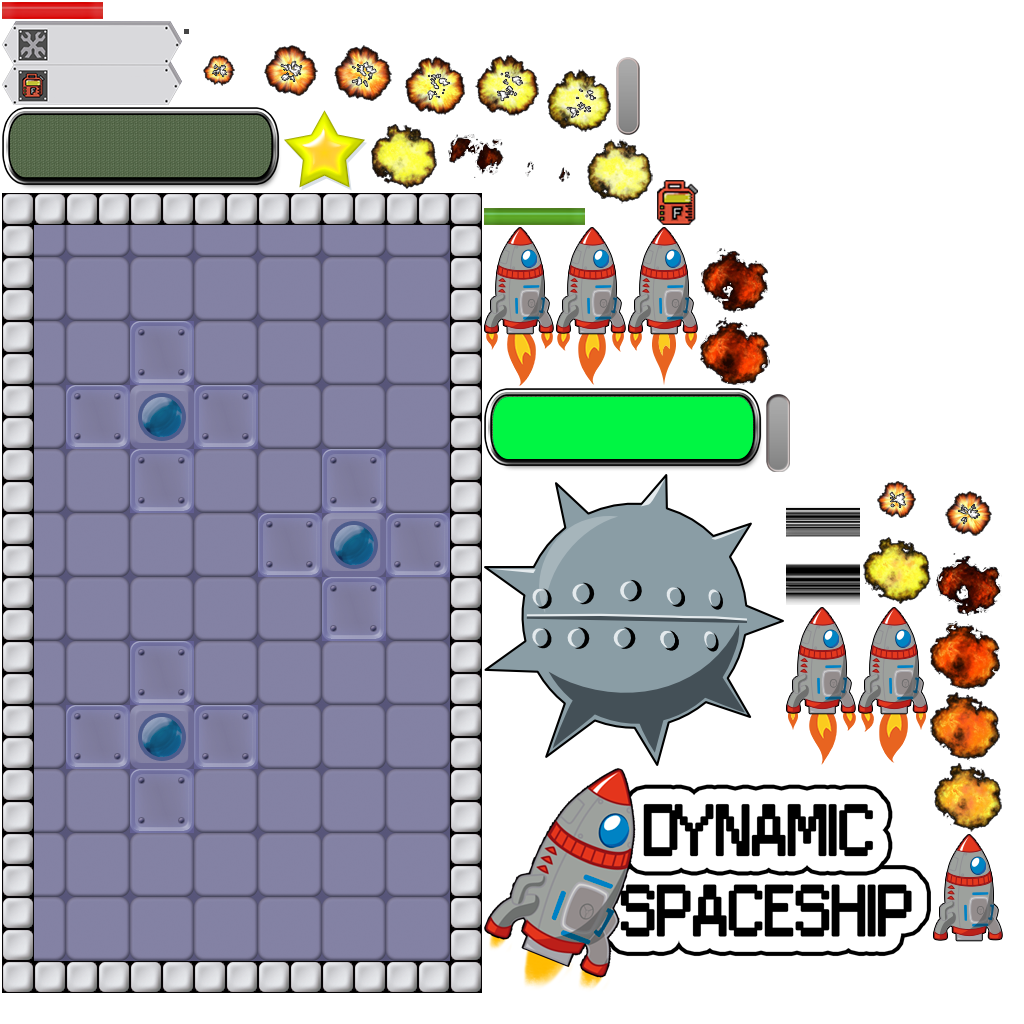
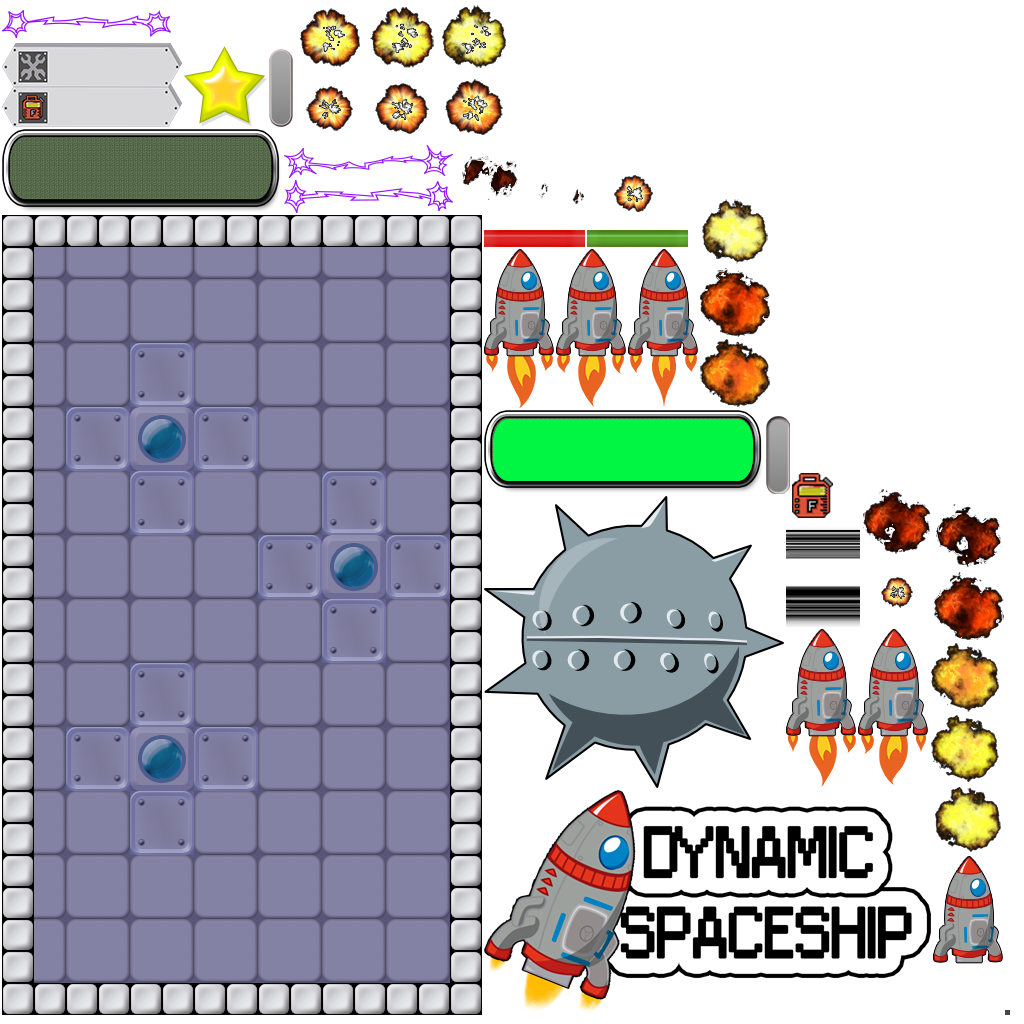
Dano laser

diff --git a/lander/src/com/tiarsoft/lander/game/Colisiones.java b/lander/src/com/tiarsoft/lander/game/Colisiones.java
@@ -11,6 +11,7 @@ import com.badlogic.gdx.physics.box2d.Manifold;
 import com.tiarsoft.lander.game.objetos.Bomba;
 import com.tiarsoft.lander.game.objetos.Estrella;
 import com.tiarsoft.lander.game.objetos.Gas;
+import com.tiarsoft.lander.game.objetos.Laser;
 import com.tiarsoft.lander.game.objetos.Nave;
 import com.tiarsoft.lander.game.objetos.Plataforma;
 
@@ -74,6 +75,10 @@ public class Colisiones implements ContactListener {
 			}
 			return;
 		}
+		else if (oOtraCosa instanceof Laser) {
+			oNave.entroAreaLaser();
+			return;
+		}
 
 		Vector2 vel = bodyNave.getLinearVelocity().sub(bodyOtraCosa.getLinearVelocity());
 		float velocidadResultante = (float) Math.sqrt(vel.x * vel.x + vel.y * vel.y);
@@ -106,6 +111,29 @@ public class Colisiones implements ContactListener {
 
 	@Override
 	public void endContact(Contact contact) {
+		Fixture a = contact.getFixtureA();
+		Fixture b = contact.getFixtureB();
+
+		if (a != null && a.getBody().getUserData() instanceof Nave)
+			endContactNaveOtraCosa(contact.getFixtureA(), contact.getFixtureB());
+		else if (b != null && b.getBody().getUserData() instanceof Nave)
+			endContactNaveOtraCosa(contact.getFixtureB(), contact.getFixtureA());
+	}
+
+	private void endContactNaveOtraCosa(Fixture nave, Fixture otraCosa) {
+		if (nave == null || otraCosa == null)
+			return;
+
+		Body bodyNave = nave.getBody();
+		Nave oNave = (Nave) bodyNave.getUserData();
+
+		Body bodyOtraCosa = otraCosa.getBody();
+		Object oOtraCosa = bodyOtraCosa.getUserData();
+
+		if (oOtraCosa instanceof Laser) {
+			oNave.salioAreaLaser();
+			return;
+		}
 
 	}
 

diff --git a/lander/src/com/tiarsoft/lander/game/WorldGame.java b/lander/src/com/tiarsoft/lander/game/WorldGame.java
@@ -96,6 +96,10 @@ public class WorldGame {
 					arrBombas.removeValue(obj, true);
 				}
 			}
+			else if (body.getUserData() instanceof Laser) {
+				Laser obj = (Laser) body.getUserData();
+				updateLaser(delta, body);
+			}
 		}
 
 		if (oNave.gas <= 0 && state == STATE_RUNNING) {
@@ -113,6 +117,13 @@ public class WorldGame {
 		}
 
 		obj.update(delta, body, accelX, accelY);
+
+		if (oNave.willGetHurtByLaser) {
+			oNave.getHurtByLaser(50);
+			Vector2 blastDirection = body.getWorldCenter().sub(body.getWorldCenter());
+			blastDirection.nor();
+			body.applyLinearImpulse(blastDirection.scl(2f), body.getWorldCenter(), true);
+		}
 	}
 
 	private void updateBomba(float delta, Body body) {
@@ -123,6 +134,18 @@ public class WorldGame {
 			body.setLinearVelocity(obj.velocidad);
 		else
 			body.setLinearVelocity(0, 0);
+
+	}
+
+	private void updateLaser(float delta, Body body) {
+		Laser obj = (Laser) body.getUserData();
+		obj.update(delta, body);
+
+		if (oNave.isTouchingLaser) {
+			if (obj.state == Laser.STATE_FIRE) {
+				oNave.willGetHurtByLaser = true;
+			}
+		}
 
 	}
 

diff --git a/lander/src/com/tiarsoft/lander/Assets.java b/lander/src/com/tiarsoft/lander/Assets.java
@@ -27,6 +27,8 @@ public class Assets {
 	public static Animation naveFly;
 	public static Animation explosion;
 
+	public static Animation laser;
+
 	public static AtlasRegion fondo;
 
 	public static AtlasRegion gas;
@@ -107,6 +109,11 @@ public class Assets {
 		AtlasRegion newExpl18 = atlas.findRegion("newExplosion18");
 		AtlasRegion newExpl19 = atlas.findRegion("newExplosion19");
 		explosion = new Animation(0.05f, newExpl1, newExpl2, newExpl3, newExpl4, newExpl5, newExpl6, newExpl7, newExpl8, newExpl9, newExpl10, newExpl11, newExpl12, newExpl13, newExpl14, newExpl15, newExpl16, newExpl17, newExpl18, newExpl19);
+
+		AtlasRegion laser1 = atlas.findRegion("laser1");
+		AtlasRegion laser2 = atlas.findRegion("laser2");
+		AtlasRegion laser3 = atlas.findRegion("laser3");
+		laser = new Animation(0.1f, laser1, laser2, laser3);
 
 		gas = atlas.findRegion("gas");
 		estrella = atlas.findRegion("estrella");

diff --git a/lander/src/com/tiarsoft/lander/game/objetos/Laser.java b/lander/src/com/tiarsoft/lander/game/objetos/Laser.java
@@ -9,23 +9,29 @@ public class Laser {
 	public static int DIRECCION_VERTICAL = 1;
 
 	float TIME_TO_FIRE = 5;
+	public float timeToFire;
+
 	float TIME_FIRING = 3;
+	public float timeFiring;
 
 	public static int STATE_NORMAL = 0;
 	public static int STATE_FIRE = 1;
 
 	public Vector2 position;
 
-	public float timeToFire;
-	public float timeFiring;
 	public float stateTime;
 	public int state;
 	public int direccion;
 
-	public Laser(float x, float y, String direccion) {
+	public final float width, height;
+
+	public Laser(float x, float y, float width, float height, String direccion) {
 		position = new Vector2(x, y);
 		stateTime = timeToFire = timeFiring = 0;
 		state = STATE_NORMAL;
+		this.width = width;
+		this.height = height;
+
 		if (direccion.equals("horizontal"))
 			this.direccion = DIRECCION_HORIZONTAL;
 		else if (direccion.equals("vertical"))

diff --git a/lander/src/com/tiarsoft/lander/game/TiledMapManagerBox2d.java b/lander/src/com/tiarsoft/lander/game/TiledMapManagerBox2d.java
@@ -294,14 +294,14 @@ public class TiledMapManagerBox2d {
 		float x = (rectangle.x + rectangle.width * 0.5f) * m_units;
 		float y = (rectangle.y + rectangle.height * 0.5f) * m_units;
 
-		Laser obj = new Laser(x, y, object.getProperties().get("direccion").toString());
+		Laser obj = new Laser(x, y, rectangle.getWidth() * m_units, rectangle.height * m_units, object.getProperties().get("direccion").toString());
 		BodyDef bd = new BodyDef();
 		bd.position.y = obj.position.y;
 		bd.position.x = obj.position.x;
 		bd.type = BodyType.StaticBody;
 
 		PolygonShape pies = new PolygonShape();
-		pies.setAsBox(.05f, .05f);
+		pies.setAsBox(rectangle.getWidth() * 0.5f * m_units, rectangle.height * 0.5f * m_units);
 
 		FixtureDef fixture = new FixtureDef();
 		fixture.shape = pies;

diff --git a/lander/src/com/tiarsoft/lander/game/WorldGameRenderer.java b/lander/src/com/tiarsoft/lander/game/WorldGameRenderer.java
@@ -84,7 +84,7 @@ public class WorldGameRenderer {
 		batcher.end();
 
 		if (Assets.isDebug) {
-			// renderBox.render(oWorld.oWorldBox, oCam.combined);
+			renderBox.render(oWorld.oWorldBox, oCam.combined);
 		}
 	}
 
@@ -135,8 +135,15 @@ public class WorldGameRenderer {
 		Iterator<Laser> i = oWorld.arrLaser.iterator();
 		while (i.hasNext()) {
 			Laser obj = i.next();
-			// batcher.draw(Assets.estrella, obj.position.x - .25f, obj.position.y - .25f, .5f, .5f);
 
+			if (obj.direccion == Laser.DIRECCION_HORIZONTAL) {
+
+				if (obj.state == Laser.STATE_FIRE)
+					batcher.draw(Assets.laser.getKeyFrame(obj.stateTime, true), obj.position.x - obj.width / 2f, obj.position.y - obj.height / 2f, obj.width, obj.height);
+			}
+			else {
+
+			}
 		}
 	}
 

diff --git a/lander/src/com/tiarsoft/lander/game/objetos/Nave.java b/lander/src/com/tiarsoft/lander/game/objetos/Nave.java
@@ -38,13 +38,15 @@ public class Nave {
 	public float vida;
 
 	public boolean isFlying;
+	public boolean isTouchingLaser;
+	public boolean willGetHurtByLaser;
 
 	public Nave(float x, float y) {
 		position = new Vector2(x, y);
 		state = STATE_NORMAL;
 		gas = GAS_INICIAL;
 		vida = VIDA_INICIAL;
-		isFlying = false;
+		isFlying = isTouchingLaser = false;
 	}
 
 	public void update(float delta, Body body, float accelX, float accelY) {
@@ -115,5 +117,18 @@ public class Nave {
 				stateTime = 0;
 			}
 		}
+	}
+
+	public void entroAreaLaser() {
+		isTouchingLaser = true;
+	}
+
+	public void salioAreaLaser() {
+		isTouchingLaser = false;
+	}
+
+	public void getHurtByLaser(float daño) {
+		willGetHurtByLaser = false;
+		colision(daño);
 	}
 }
